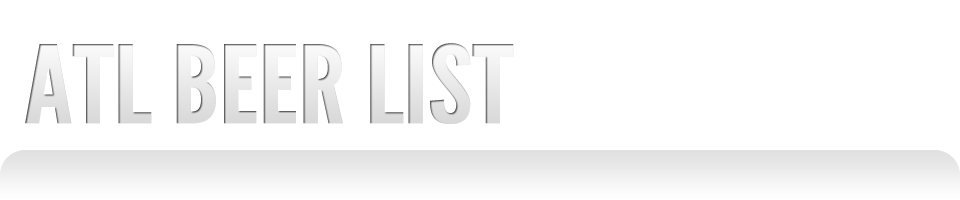
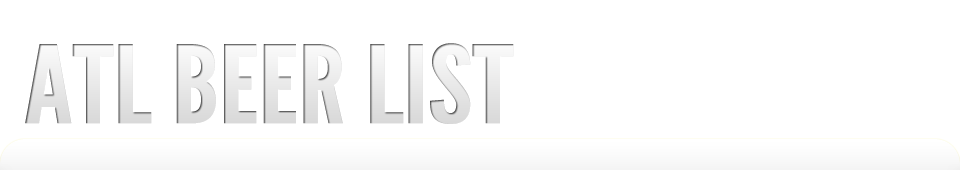
Image modifications: More beerlike

diff --git a/public/stylesheets/style.css b/public/stylesheets/style.css
@@ -415,10 +415,10 @@ p#coming_notice {
 }
 div#wrap {
 /*  background: url('/images/beerlist-bg.jpg') repeat-y; */
-  background: #FFD500;
+  background: #ffcc00 url('/images/wrapbg.png') no-repeat;
   width: 960px;
   height: 100%;
-  padding-top: 10px;
+  padding-top: 40px;
   -moz-border-radius:0px 0px 25px 25px;
   -webkit-border-radius:0px 0px 25px 25px;
   border-radius:0px 0px 25px 25px;
@@ -445,7 +445,7 @@ html {
 }
 div#title {
   background: url('/images/titleimg.png') no-repeat;
-  height: 200px;
+  height: 170px;
   width: 960px;
 }
 div#footerinfo {
